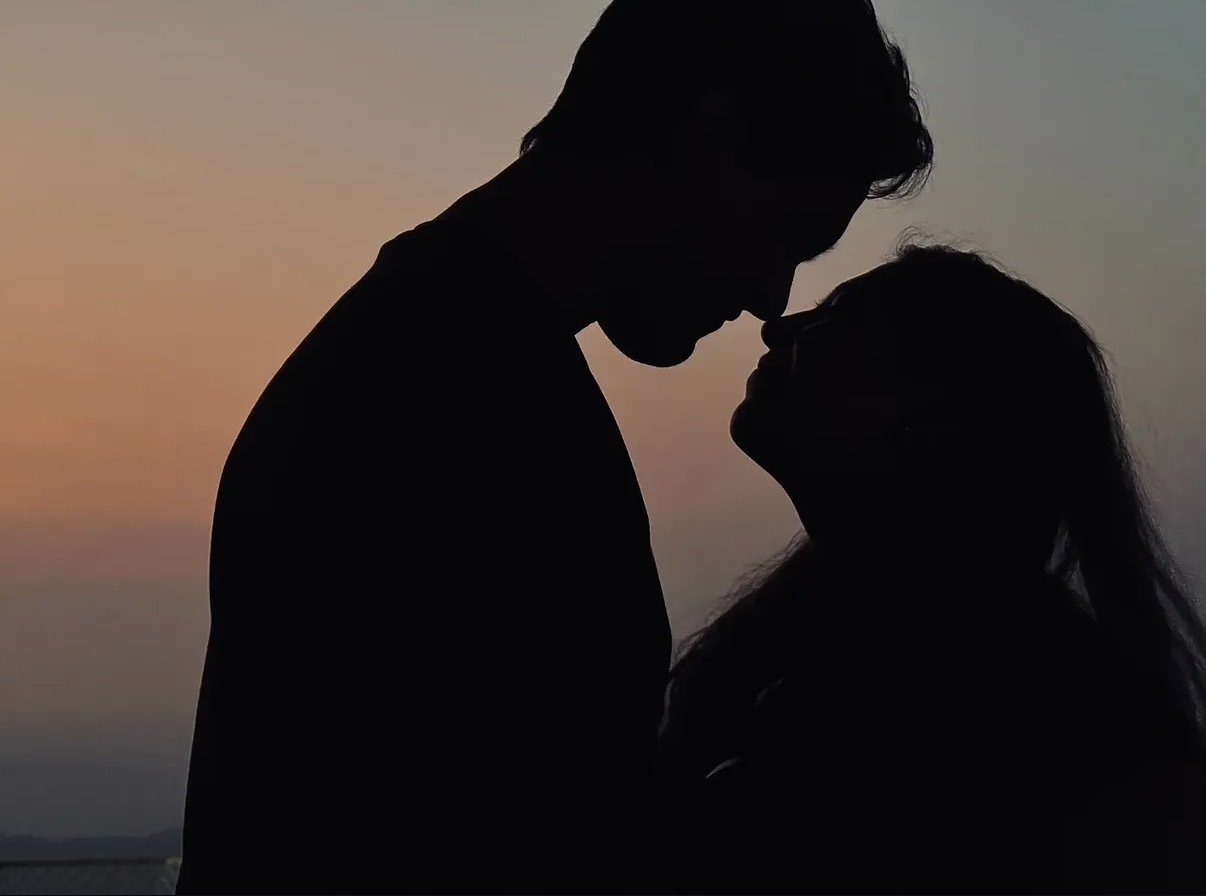
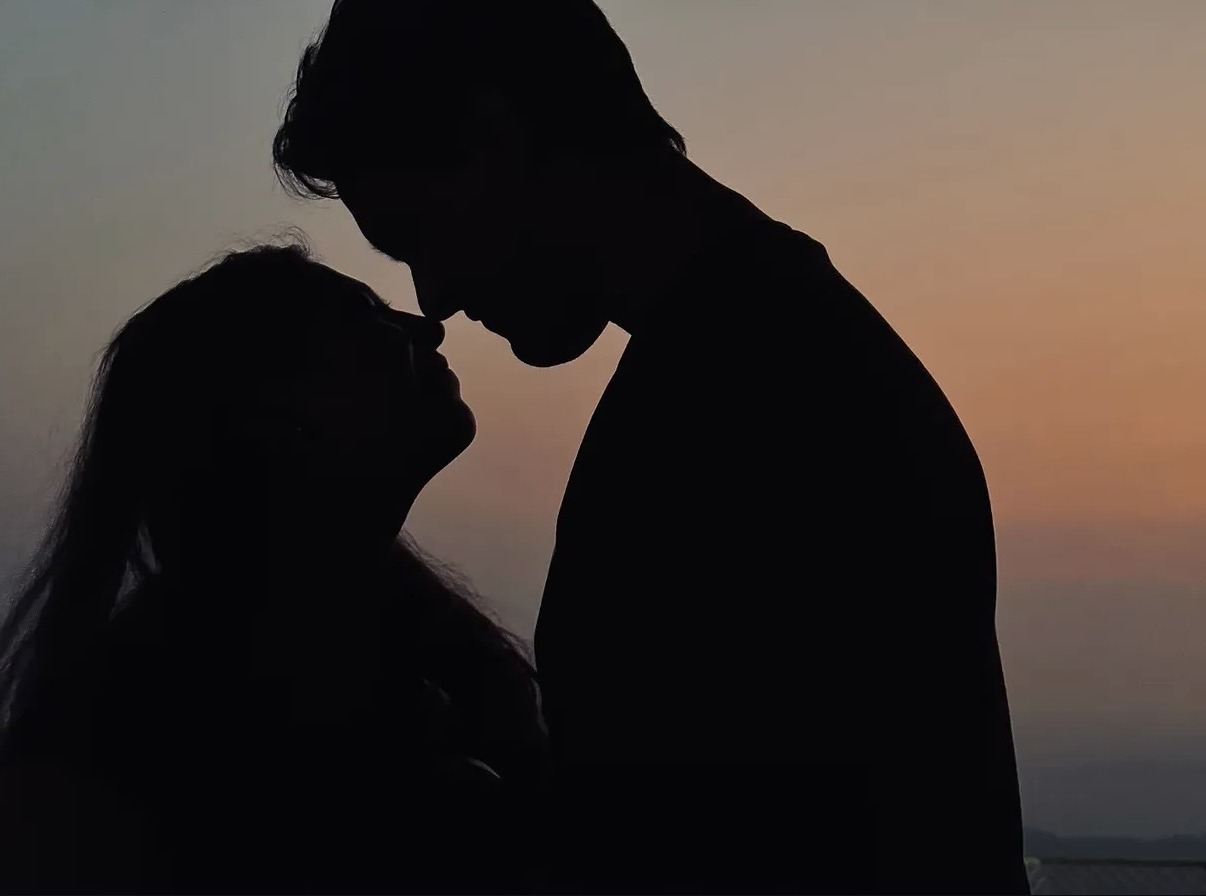
fix: physically flip hero image, remove scaleX CSS transform
Pre-flip hero-cover.jpg with PIL so Parag is right (Batman side)
and Nidhi is left (Catwoman side) — eliminates CSS transform +
objectPosition interaction that was causing incorrect crop on
mobile and desktop. Use center 0% objectPosition to show heads
~65px below viewport top with no transform overhead.

diff --git a/app/components/Hero.tsx b/app/components/Hero.tsx
@@ -62,10 +62,9 @@ export default function Hero() {
     >
 
       {/* ── Parallax hero image ── */}
-      {/* scaleX:-1 on the wrapper so objectPosition calculates on the untransformed image first */}
       <motion.div
         className="absolute inset-0"
-        style={{ y: imageY, scale: 1.05, scaleX: -1 }}
+        style={{ y: imageY, scale: 1.05 }}
       >
         <Image
           src="/images/hero-cover.jpg"
@@ -75,7 +74,7 @@ export default function Hero() {
           sizes="100vw"
           style={{
             objectFit: 'cover',
-            objectPosition: isMobile ? '55% 40%' : 'center 55%',
+            objectPosition: 'center 0%',
             filter: 'contrast(1.10) saturate(1.20) brightness(0.82) sepia(0.06)',
           }}
         />